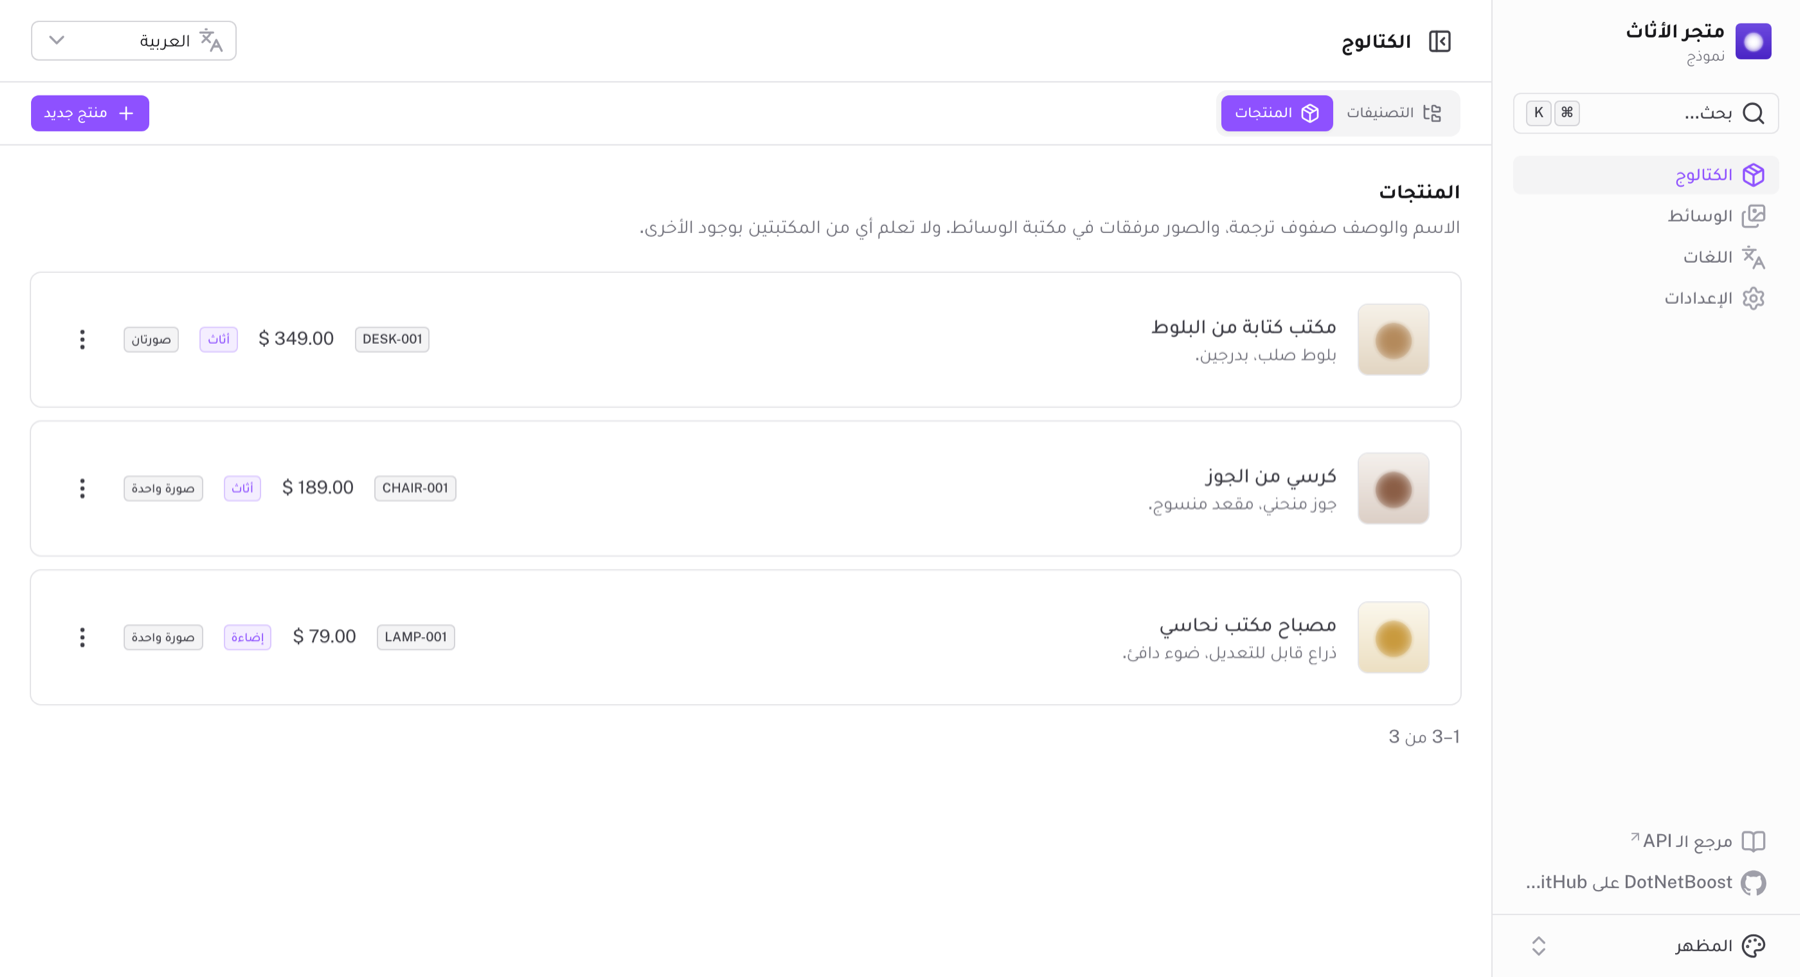
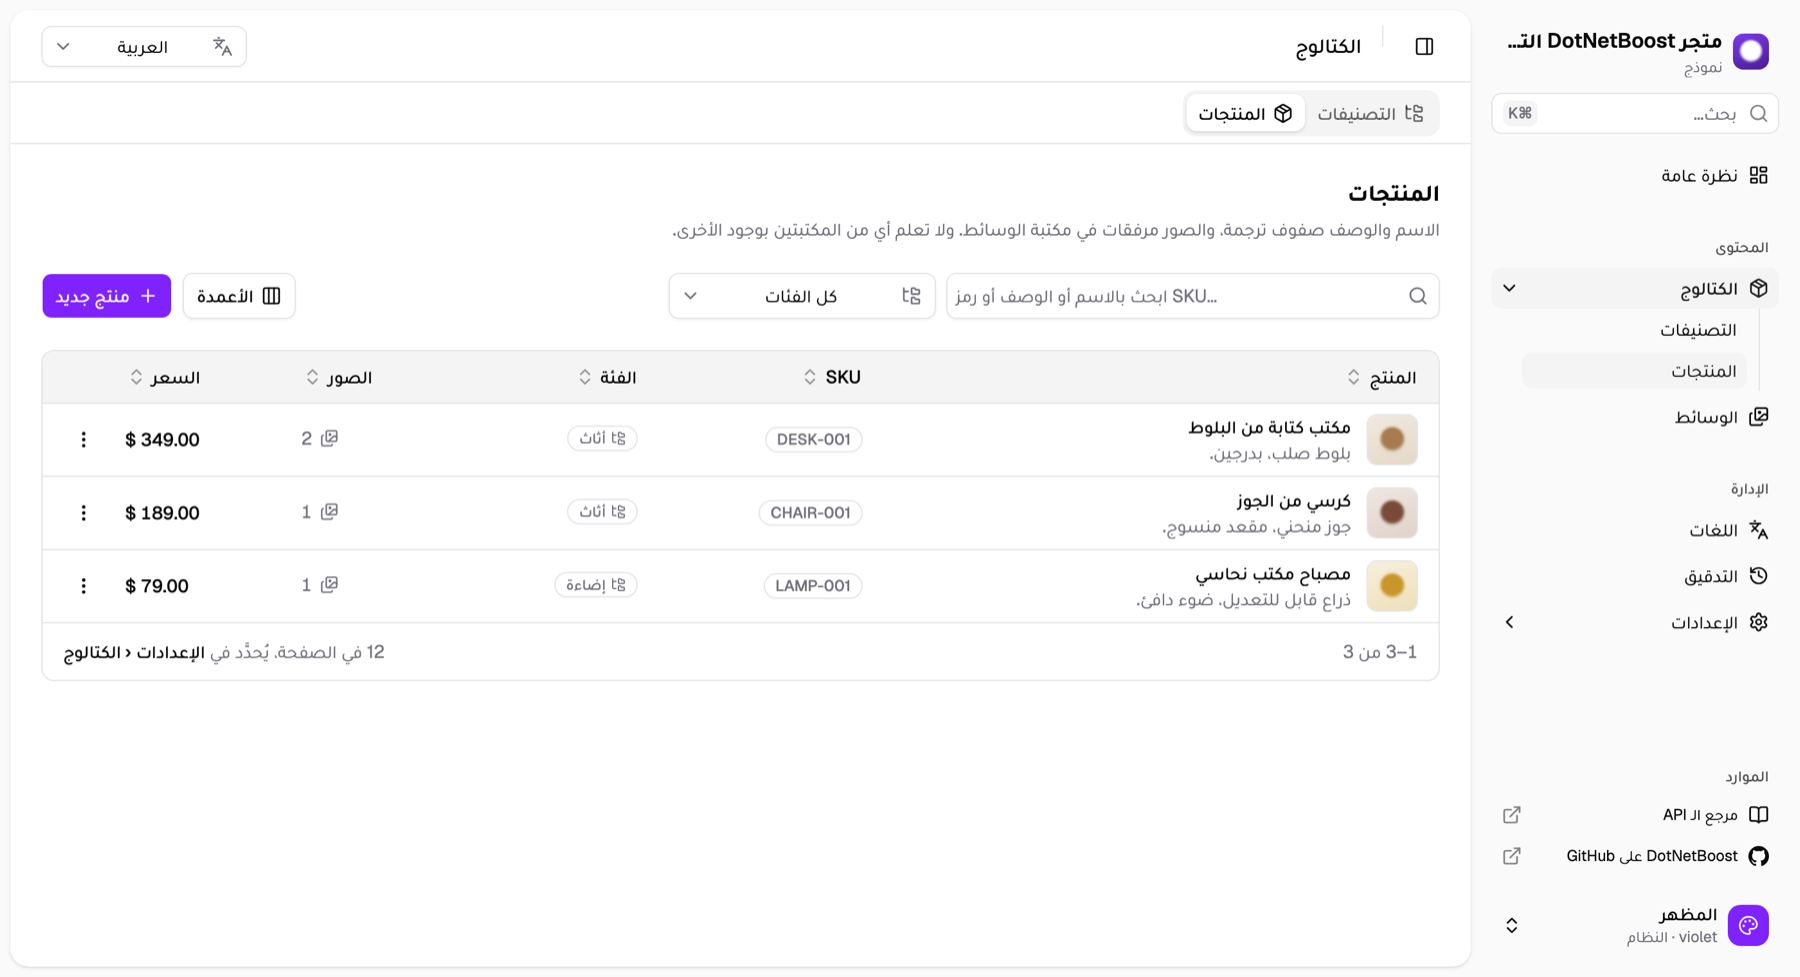
Retake the dashboard screenshots on shadcn-vue
All six were still of the Nuxt UI dashboard. Retaken the way
docs/screenshots/README.md describes: a fresh PostgreSQL seeded by
DatabaseInitialiser, the real API, a production build, generated placeholder
imagery with alt text in en/ar/fr, then the six audit writes before the Audit
page. 1400px at 2×, resized to 1800px, light theme.

The README there was wrong in two places this run showed up. Seeding is
audited now — the trail opens with a Created entry per seeded row and no
actor — so "a freshly seeded database has none" is gone. And the order is
written down: the writes delete the lamp, so the catalogue has to be
photographed before them.

diff --git a/docs/screenshots/README.md b/docs/screenshots/README.md
@@ -10,18 +10,25 @@ The images the root `README.md` embeds. How they were taken, so regenerating the
   being tested that day into the repository.
 - **Placeholder imagery**, generated rather than photographed, attached as the products' `primary`
   and `gallery`, the categories' `banner` and branding's `logo`, with alt text written in English,
-  Arabic and French — so the pages show the composition rather than empty slots.
+  Arabic and French — so the pages show the composition rather than empty slots. Branding's store
+  name is given an Arabic and a French translation too, so its card reads "every language covered".
 - **1400px wide, captured at 2× and resized to 1800px**, which is about twice GitHub's content
-  column and therefore still sharp on the displays most people read a README on.
+  column and therefore still sharp on the displays most people read a README on. A 1400×760
+  viewport in the light theme; `overview.png`, `settings.png` and `audit.png` are the full page,
+  the other three the viewport. Playwright's Chromium with `deviceScaleFactor: 2`, then
+  `sips --resampleWidth 1800`.
+- **In this order**: the imagery, then every image except `audit.png`, then the writes below, then
+  `audit.png`. The writes delete the lamp and add a bookshelf, so photographing the catalogue after
+  them would show neither the seeded three nor their images.
 
 `catalog.png` and `catalog-rtl.png` are the same page and the same data, read in `en` and in `ar`.
 That pair is the point of the sample, so it is worth keeping them in step if either is replaced.
 
 ## `audit.png` also needs a trail
 
-A freshly seeded database has none. `DatabaseInitialiser` writes the catalogue without going
-through the six slices that record, so the Audit page is honestly empty until something changes —
-and an empty trail is a photograph of nothing.
+A freshly seeded database has only the seed's own: `DatabaseInitialiser` saves through the audited
+`DbContext`, so the trail opens with a `Created` entry per row and no actor — "unknown" on the page.
+That is honest and says nothing about who changed what, which is what the page is for.
 
 These six writes are what it shows. They are deliberate rather than whatever was being tested that
 day, for the same reason the database is a seeded one, and they are run against it with the API up:
@@ -90,5 +97,5 @@ It is **taller than the others**, because the rules card and an opened entry do 
 height. 1400px wide at 2× is the part that is fixed; the height is whatever the page needs with
 nothing left to scroll to.
 
-It needs no placeholder imagery either: no media is drawn on that page, and attaching a file would
-not show up in the trail anyway — `MediaFile` is not one of the two audited entities here.
+It needs no imagery of its own: no media is drawn on that page, and the filter keeps the uploads'
+own entries out of the picture.
